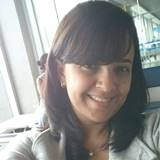
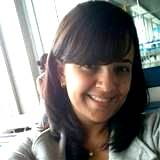
aaa

diff --git a/_site/_site/about/index.html b/_site/_site/about/index.html
@@ -76,19 +76,17 @@
         <section id="content">
             <div class="wrapper">
                 <article id="aboutMe" class="single_post clearfix">
-	<!--<img id="aboutPhoto" src="/img/aaaa.jpg" />-->
-	
-	<div class="introduction">
-	 <div class="foto">
-        <img src="/img/ft.jpg" alt="Foto de Jenifer">
+    <!--<img id="aboutPhoto" src="/img/aaaa.jpg" />-->
+    <div class="introduction">
+        <div style="position:relative;">
+            <img class="foto" src="/img/ft.jpg" alt="Foto de Jenifer">
+            <h1>Jenifer Vieira</h1>
+            <h2>Mestre em Ciência da Computação, professora e eterna aluna.</h2>
+        </div>
+        <br/>
+        <p>Sou professora e coordenadora dos cursos de computação da Universidade Tiradentes (UNIT), graduada em Ciência da Computação pela FAGOC e mestre também em Ciência da Computação na Universidade Federal de Sergipe (UFS).</p>
     </div>
-		<h1>Jenifer Vieira</h1>
-		<h2>Mestre em Ciência da Computação, professora e eterna aluna.</h2>
-		<p>Sou professora e coordenadora dos cursos de computação da Universidade Tiradentes (UNIT), graduada em Ciência da Computação
-		 pela FAGOC e mestre também em Ciência da Computação na Universidade Federal de Sergipe (UFS).</p>
-	</div>
 </article>
-
             </div>
         </section>
     </div>

diff --git a/_site/about/index.html b/_site/about/index.html
@@ -76,19 +76,17 @@
         <section id="content">
             <div class="wrapper">
                 <article id="aboutMe" class="single_post clearfix">
-	<!--<img id="aboutPhoto" src="/img/aaaa.jpg" />-->
-	
-	<div class="introduction">
-	 <div class="foto">
-        <img src="/img/ft.jpg" alt="Foto de Jenifer">
+    <!--<img id="aboutPhoto" src="/img/aaaa.jpg" />-->
+    <div class="introduction">
+        <div style="position:relative;">
+            <img class="foto" src="/img/ft.jpg" alt="Foto de Jenifer">
+            <h1>Jenifer Vieira</h1>
+            <h2>Mestre em Ciência da Computação, professora e eterna aluna.</h2>
+        </div>
+        <br/>
+        <p>Sou professora e coordenadora dos cursos de computação da Universidade Tiradentes (UNIT), graduada em Ciência da Computação pela FAGOC e mestre também em Ciência da Computação na Universidade Federal de Sergipe (UFS).</p>
     </div>
-		<h1>Jenifer Vieira</h1>
-		<h2>Mestre em Ciência da Computação, professora e eterna aluna.</h2>
-		<p>Sou professora e coordenadora dos cursos de computação da Universidade Tiradentes (UNIT), graduada em Ciência da Computação
-		 pela FAGOC e mestre também em Ciência da Computação na Universidade Federal de Sergipe (UFS).</p>
-	</div>
 </article>
-
             </div>
         </section>
     </div>

diff --git a/about/index.html b/about/index.html
@@ -1,17 +1,17 @@
 ---
 layout: default
-title: Sobre Jenifer Vieira 
+title: Sobre Jenifer Vieira
 ---
+
 <article id="aboutMe" class="single_post clearfix">
-	<!--<img id="aboutPhoto" src="/img/aaaa.jpg" />-->
-	
-	<div class="introduction">
-	 <div class="foto">
-        <img src="/img/ft.jpg" alt="Foto de Jenifer">
+    <!--<img id="aboutPhoto" src="/img/aaaa.jpg" />-->
+    <div class="introduction">
+        <div style="position:relative;">
+            <img class="foto" src="/img/ft.jpg" alt="Foto de Jenifer">
+            <h1>Jenifer Vieira</h1>
+            <h2>Mestre em Ciência da Computação, professora e eterna aluna.</h2>
+        </div>
+        <br/>
+        <p>Sou professora e coordenadora dos cursos de computação da Universidade Tiradentes (UNIT), graduada em Ciência da Computação pela FAGOC e mestre também em Ciência da Computação na Universidade Federal de Sergipe (UFS).</p>
     </div>
-		<h1>Jenifer Vieira</h1>
-		<h2>Mestre em Ciência da Computação, professora e eterna aluna.</h2>
-		<p>Sou professora e coordenadora dos cursos de computação da Universidade Tiradentes (UNIT), graduada em Ciência da Computação
-		 pela FAGOC e mestre também em Ciência da Computação na Universidade Federal de Sergipe (UFS).</p>
-	</div>
 </article>

diff --git a/_site/_site/css/base.css b/_site/_site/css/base.css
@@ -123,6 +123,6 @@ section#content { padding-top: 32px;}
 
 .foto {
     border-radius: 100px;
-    width: 50px;
-    height: 50px;
+    width: 15%;
+    height: 15%;
 }

diff --git a/_site/css/base.css b/_site/css/base.css
@@ -123,6 +123,6 @@ section#content { padding-top: 32px;}
 
 .foto {
     border-radius: 100px;
-    width: 50px;
-    height: 50px;
+    width: 15%;
+    height: 15%;
 }

diff --git a/css/base.css b/css/base.css
@@ -123,6 +123,6 @@ section#content { padding-top: 32px;}
 
 .foto {
     border-radius: 100px;
-    width: 50px;
-    height: 50px;
+    width: 15%;
+    height: 15%;
 }
